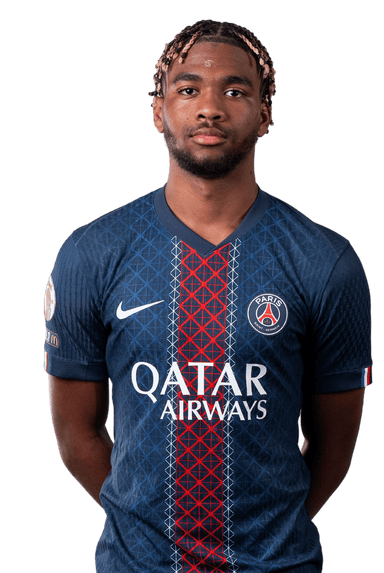
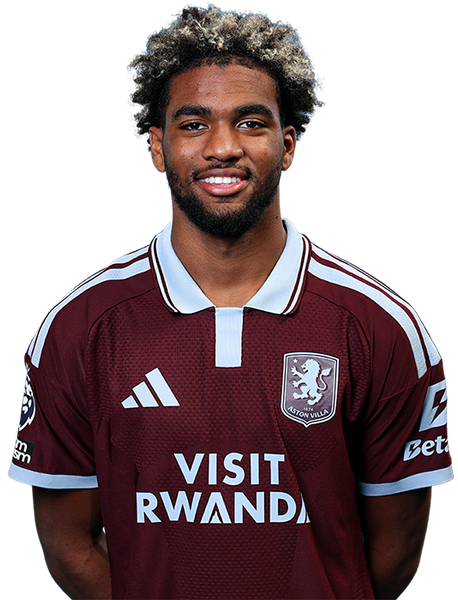
fix index

diff --git a/src/datas/Fiches.jsx b/src/datas/Fiches.jsx
@@ -314,6 +314,7 @@ import wahi from "../assets/portraits/fiche/wahi.png"
 import nuamah from "../assets/portraits/fiche/nuamah.png"
 import espart from "../assets/portraits/fiche/espart.png"
 import openda from "../assets/portraits/fiche/openda.png"
+import mcginn from "../assets/portraits/fiche/mcginn.png"
 import ryerson from "../assets/portraits/fiche/ryerson.webp"
 import barco from "../assets/portraits/fiche/barco.webp"
 import emegha from "../assets/portraits/fiche/emegha.webp"
@@ -323,6 +324,7 @@ import nunes from "../assets/portraits/fiche/nunes.webp"
 
 
 export const fichesJoueurs = {
+        19191: mcginn,
     350856: nuamah,
     86: openda,
     568001: espart,

diff --git a/src/datas/Portraits.jsx b/src/datas/Portraits.jsx
@@ -273,12 +273,18 @@ import wahi from "../assets/portraits/wahi.png"
 import espart from "../assets/portraits/espart.png"
 import nuamah from "../assets/portraits/nuamah.png"
 import openda from "../assets/portraits/openda.png"
+import mbaye from "../assets/portraits/mbaye.png"
+import mcginn from "../assets/portraits/mcginn.png"
+import goretzka from "../assets/portraits/goretzka.png"
 
 
 
 
 
 export const portraitsJoueurs = {
+    511: goretzka,
+    19191: mcginn,
+    446249: mbaye,
     86: openda,
         568001: espart,
     350856: nuamah,

diff --git a/src/components/Favorite.jsx b/src/components/Favorite.jsx
@@ -147,7 +147,7 @@ const [firstUpcomingIndexes, setFirstUpcomingIndexes] = useState({});
         padding: 12,
     }}
     onContentSizeChange={() => {
-        const index = firstUpcomingIndexes[teamId];
+        const index = firstUpcomingIndexes[teamId] - 1;
 
         if (index == null) return;
 
